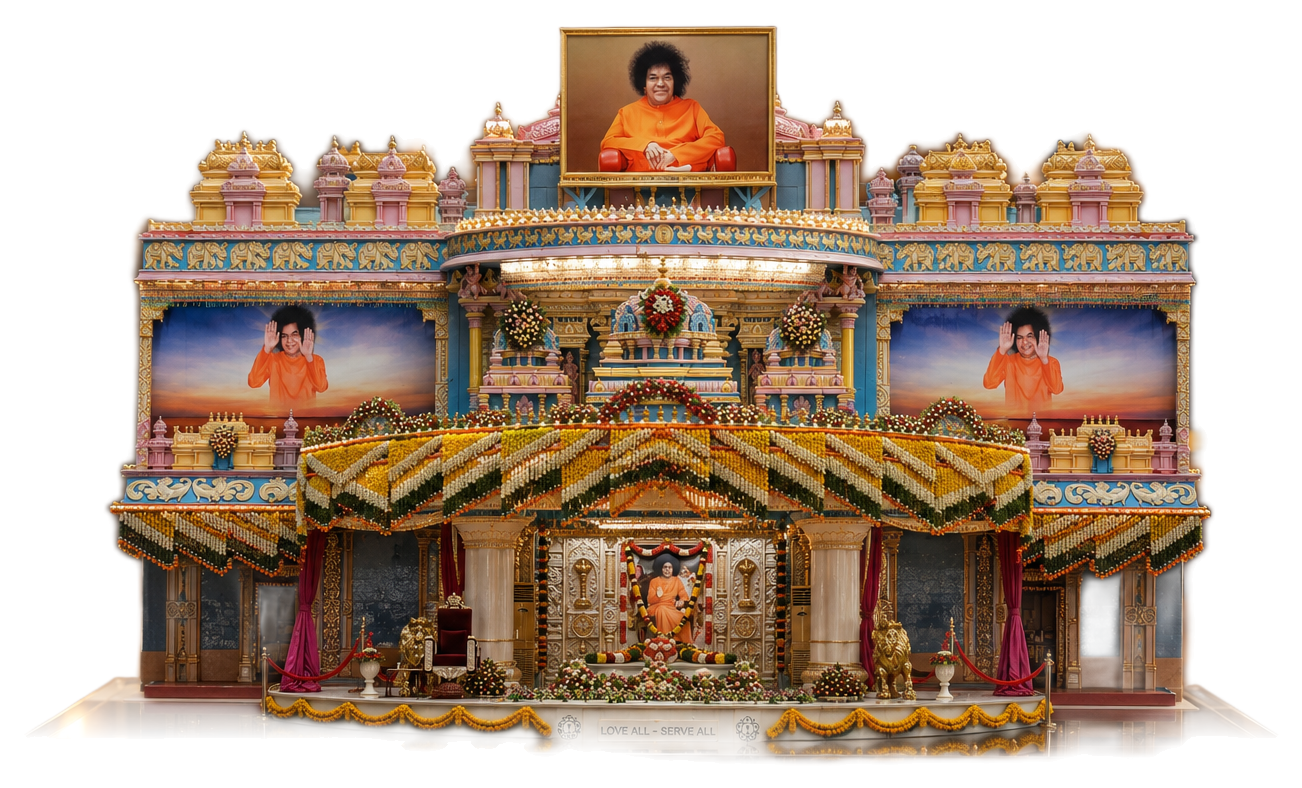
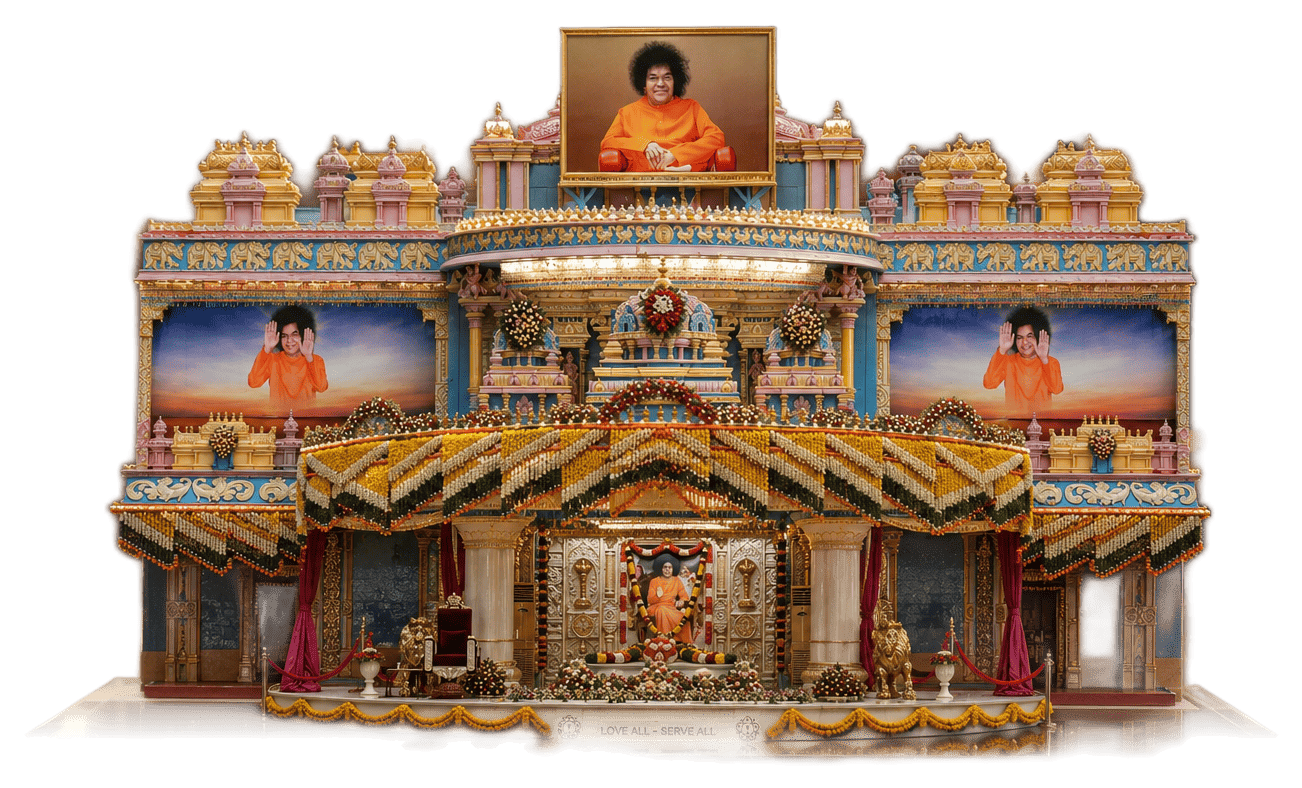
chore: deploy-ready cleanup — remove tracked db files, add Railway config, fix gitignore

diff --git a/config/database.js b/config/database.js
@@ -1,8 +1,9 @@
 const { Sequelize } = require("sequelize");
+const path = require("path");
 
 const sequelize = new Sequelize({
     dialect: "sqlite",
-    storage: "bhajans.db",
+    storage: process.env.DB_PATH || path.join(__dirname, "..", "bhajans.db"),
     logging: false
 });
 

diff --git a/README.md b/README.md
@@ -1,33 +1,80 @@
-# Bhajan_Schedular
-Bhajan schedular for Sri Sathya Sai Seva Organisations, Gandhinagar. 
+# Bhajan Scheduler
 
+Bhajan scheduling and planning tool for Sri Sathya Sai Seva Organisation, Gandhinagar.
 
-# STart the Engine
-node main.js
+## Features
 
-# Top Run the Planner:
+- **Submit Form** — Devotees submit bhajan preferences for upcoming sessions
+- **Plan View** — View the curated bhajan plan for each session
+- **Admin Dashboard** — Manage submissions, sessions, deity rules, and users
+- **Master Bhajan Bank** — Searchable database of 6000+ bhajans with deity, raga, tempo metadata
+- **Singer Dictionary** — Track singer assignments and availability
+- **Analytics** — Session history, activity logs, and usage statistics
+- **Google Sign-In** — Optional OAuth-based admin authentication
 
-Submit Form: http://localhost:8000/submit-form
-Plan View: http://localhost:8000/plan-view
+## Quick Start
 
+### Prerequisites
+- [Node.js](https://nodejs.org/) v18 or higher
 
-# Installation
-| Step 1: Install Node.js from https://nodejs.org/
-| Step 2: Restart your Terminal
-| Step 3: cd ~\Bhajan_Schedular
-| Step 4: Verify 
-$ node -v
+### Installation
 
-| Step 5: Install dependencies
-$ npm install
+```bash
+# Clone the repo
+git clone https://github.com/vedasoham/Bhajan_Schedular.git
+cd Bhajan_Schedular
 
-| Step 6: Run your App
-$ node main.js
+# Install dependencies
+npm install
 
-| To remove the bhajan history
-| Login to admin and run
-$ http://localhost:8000/admin/danger-reset-history
+# Create your environment file
+cp .env.example .env
+# Edit .env with your actual credentials
 
-# Admin
-admin
-sairam
+# Start the app
+npm start
+```
+
+### URLs (local)
+| Page | URL |
+|------|-----|
+| Submit Form | http://localhost:8000/submit-form |
+| Plan View | http://localhost:8000/plan-view |
+| Admin Dashboard | http://localhost:8000/admin |
+
+## Environment Variables
+
+See [`.env.example`](.env.example) for all available variables. Key ones:
+
+| Variable | Required | Description |
+|----------|----------|-------------|
+| `SUPER_ADMIN_USER` | ✅ | Username for the initial super admin account |
+| `SUPER_ADMIN_PASS` | ✅ | Password for the initial super admin account |
+| `SESSION_SECRET` | ✅ | Random string for signing session cookies |
+| `GOOGLE_CLIENT_ID` | Optional | Google OAuth client ID for admin sign-in |
+| `DB_PATH` | Optional | Path to SQLite database file (default: `./bhajans.db`) |
+| `NODE_ENV` | Optional | Set to `production` on Railway |
+| `PORT` | Optional | Server port (default: `8000`) |
+
+## Deploying to Railway
+
+1. Push this repo to GitHub
+2. Create a new Railway project → Deploy from GitHub repo
+3. Add a **Volume** in Railway, mount it at `/data`
+4. Set these environment variables in Railway:
+   - `SUPER_ADMIN_USER`, `SUPER_ADMIN_PASS`, `SUPER_ADMIN_DISPLAY_NAME`
+   - `SESSION_SECRET` (use a long random string)
+   - `DB_PATH=/data/bhajans.db`
+   - `NODE_ENV=production`
+   - `GOOGLE_CLIENT_ID` (if using Google sign-in)
+5. Deploy — Railway will auto-detect `npm start` via `railway.json`
+
+> **Important**: You must add a Railway Volume for data persistence. Without it, your database resets on every deploy.
+
+## Tech Stack
+
+- **Runtime**: Node.js + Express
+- **Templating**: EJS with express-ejs-layouts
+- **Database**: SQLite via Sequelize ORM
+- **Auth**: bcrypt password hashing + Google OAuth
+- **Security**: CSP headers, rate limiting, cross-site write blocking
